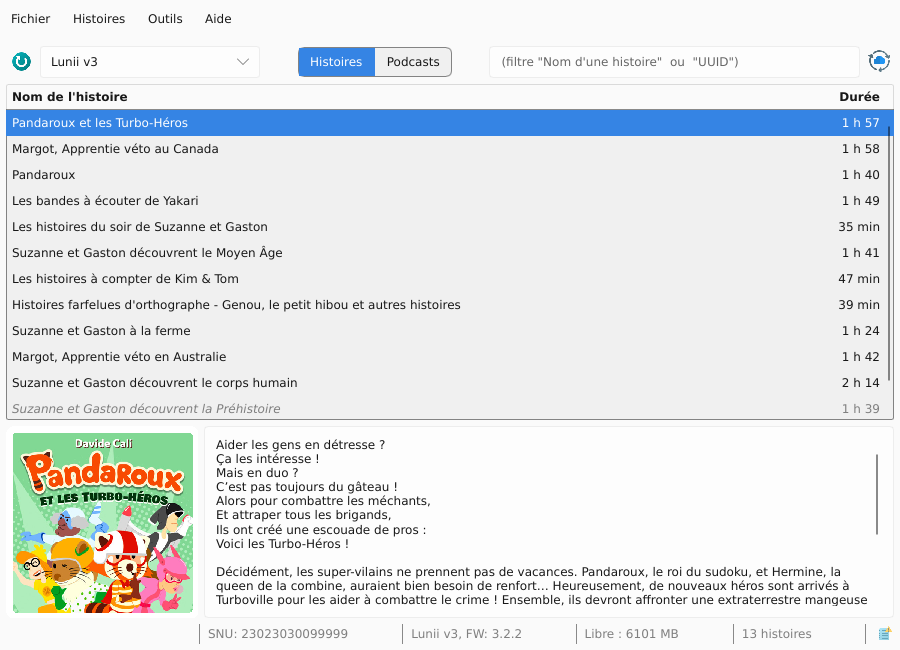
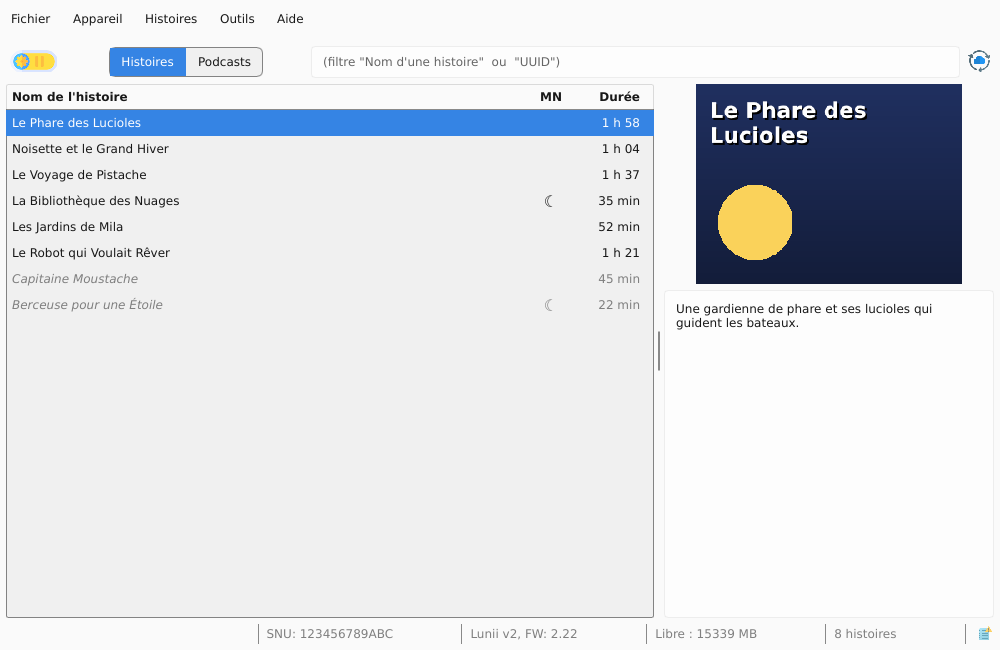
docs: captures refaites avec la fausse Lunii

diff --git a/README.md b/README.md
@@ -79,8 +79,8 @@ Les Flams <u>pourront</u> sauvegarder et restaurer leurs histoires mais ne fonct
 
 1. La **barre de menu**. Elle vous informera lorsqu'une mise à jour de l'application est disponible  
    (il suffit d'aller dans Menu About/Update to v2.X.X)
-2. **Le modèle de votre Lunii/Flam** lorsqu'elle est connectée (son emplacement et ses informations techniques sont dans Fichier / Informations sur l'appareil, ou d'un clic sur la barre d'état).   
-   Le bouton à gauche relance la détection automatique.
+2. Les vues **Histoires** et **Podcasts**.  
+   La Lunii/Flam connectée se choisit dans le menu **Appareil**, qui relance aussi la détection (Rafraichir les appareils). Son emplacement et ses informations techniques sont dans Fichier / Informations sur l'appareil, ou d'un clic sur la barre d'état.
 3. Gestion du **Mode nuit** ([ici](#mode-nuit)), affichée seulement si la Lunii branchée le gère (Flam exclue)
 4. Actualisation de la **base de données Officielle** : Met à jour la liste des histoires et leurs descriptions depuis le Luniistore. Utilisez ce bouton lorsque certaines histoires officielles ne sont pas reconnues.
 5. La **liste de vos histoires** avec leur durée. Le menu **Outils** permet d'afficher aussi leur taille, leur base de données (DB) et leur UUID, masqués par défaut.  
@@ -91,7 +91,7 @@ Les Flams <u>pourront</u> sauvegarder et restaurer leurs histoires mais ne fonct
         (Toutes les métadonnées proviennent des serveurs de Lunii).
      - **T** - base de données **T**ierce, également connue sous Non officielles ou Custom  
         (Ces métadonnées ne peuvent pas être récupérées, elles sont complétées lors de l'importation de l'histoire)
-6. L'icône 🛏 indique que **l'histoire supporte le Mode Nuit**. Il est possible de forcer ce status depuis le menu contextuel
+6. La colonne **MN** (☾) indique que **l'histoire supporte le Mode Nuit**. Il est possible de forcer ce status depuis le menu contextuel
 7. **Histoires cachées** (les entrées grisées dans la liste).   
    Cette fonctionnalité est activable par le biais du menu contextuel sur une histoire.  
    Son usage est double:  

diff --git a/README_EN.md b/README_EN.md
@@ -79,8 +79,8 @@ Forget about all previous .md and firmware recommendations.
 
 1. The **menu bar**. It will notify you when an update is available  
    (just get it with Menu About/Update to v2.X.X)
-2. The **model of your Lunii/Flam** when it's connected (its location and technical details are in File / Device information, or a click on the status bar).   
-   The button on the left updates automatic detection.
+2. The **Stories** and **Podcasts** views.  
+   The connected Lunii/Flam is chosen in the **Device** menu, which also runs the detection again (Refresh connected devices). Its location and technical details are in File / Device information, or a click on the status bar.
 3. Configuring **Night mode** ([here](#night-mode)), shown only when the connected Lunii supports it (not on Flam)
 4. **Official DB refresh** : Updates the list of stories and related information from the official Lunii Store. Use it when some official are not recognized.
 5. The **list of your stories** with their duration. The **Tools** menu also shows their size, Database (DB) origin and UUID, hidden by default.  
@@ -92,7 +92,7 @@ Forget about all previous .md and firmware recommendations.
      - **T** - **T**hirdparty Database, also known as Unofficial or Custom Stories  
         _(Those metadata can't be fetched. They are completed upon story import)_
 
-6. The 🛏 icon indicates that **the story supports Night Mode**. You can force this status from the context menu.
+6. The **NM** column (☾) indicates that **the story supports Night Mode**. You can force this status from the context menu.
 
 7. **Hidden stories** (the greyed-out entries in the list).  
    This feature can be activated via the context menu on a story.  
